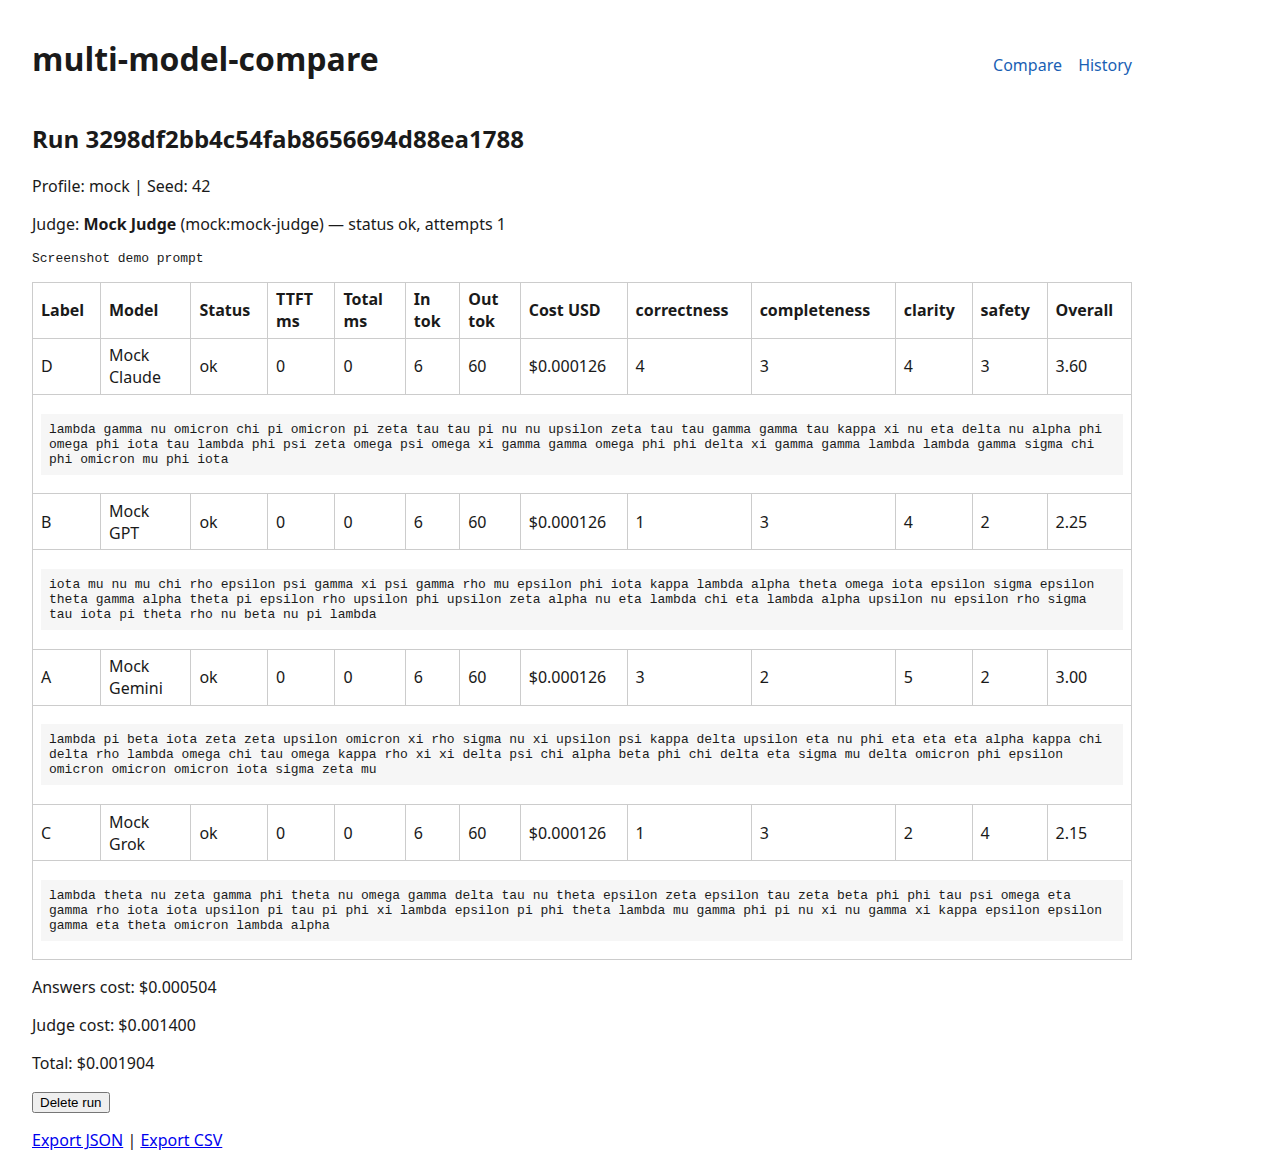
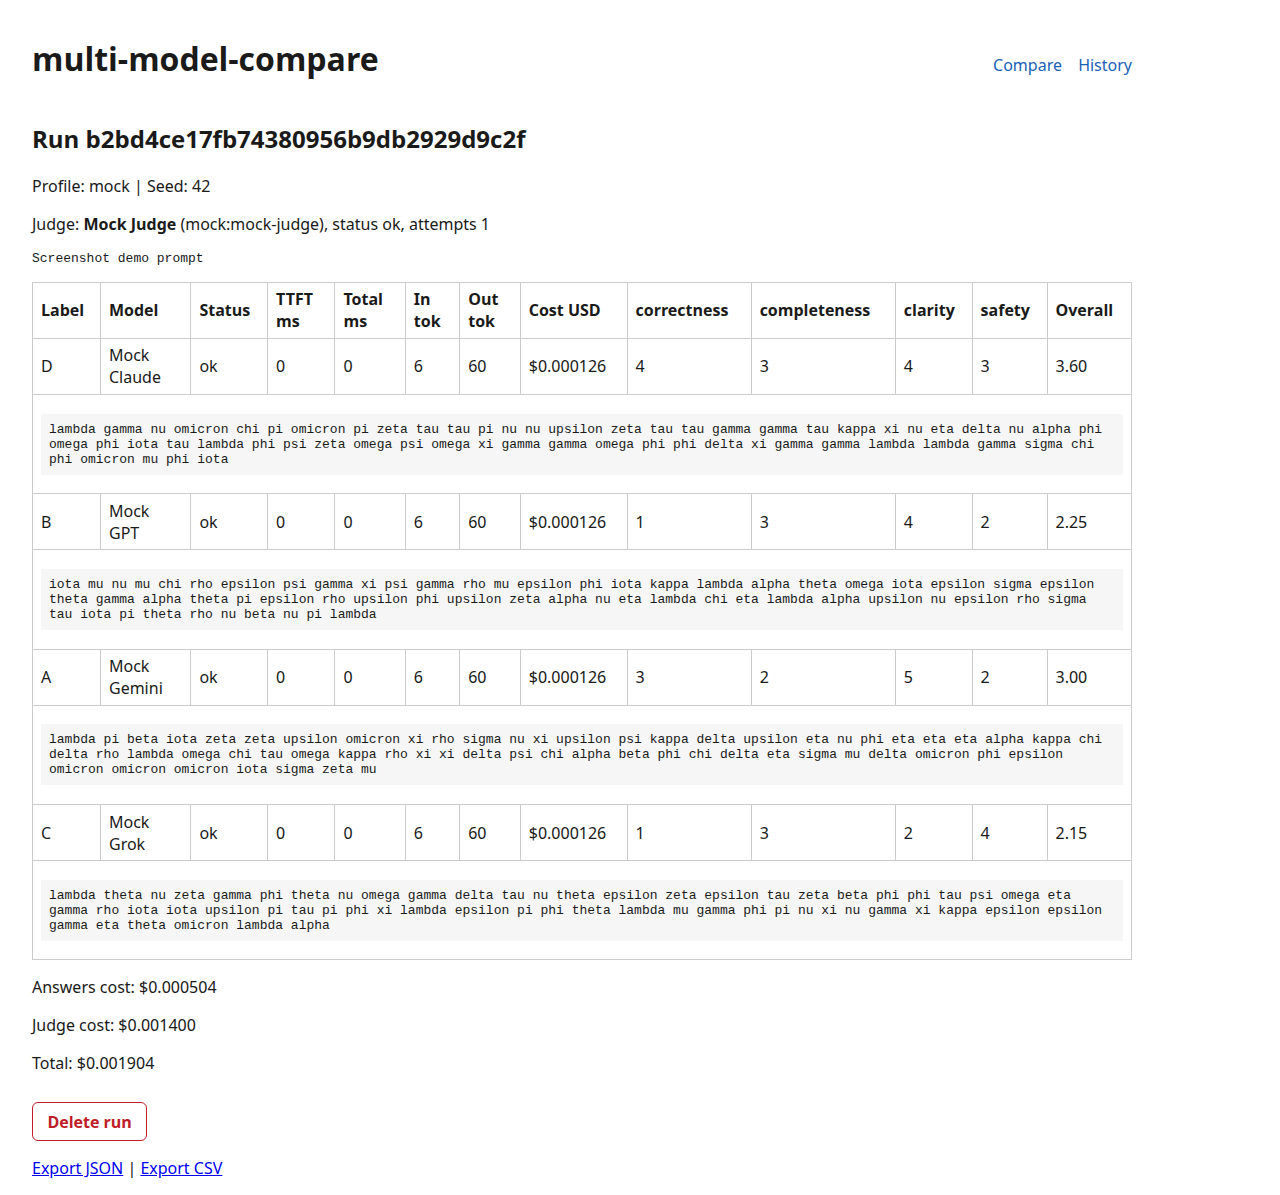
Fix re-verification: Anthropic protocol, xAI gRPC, UI, tags
Treat Anthropic streams without message_delta/stop_reason as protocol errors
with a truncated missing_terminal fixture. Replay real grpc.aio.AioRpcError in
contract tests and assert INTERNAL/UNAUTHENTICATED/RESOURCE_EXHAUSTED mapping;
strengthen Google/xAI tool_choice absence checks. Use answers-only estimated
flag in the UI, improve model grid and form styling, remove stage-* tags from
README and origin, and refresh screenshots.

diff --git a/src/mmc/web/static/app.css b/src/mmc/web/static/app.css
@@ -3,13 +3,58 @@ body { font-family: system-ui, sans-serif; margin: 1rem 2rem; max-width: 1100px;
 .field-prompt { font-weight: 600; margin-bottom: 0.25rem; }
 .prompt-input { width: 100%; box-sizing: border-box; font: inherit; padding: 0.5rem; min-height: 8rem; border: 1px solid #bbb; border-radius: 6px; }
 .field-group { border: 1px solid #ddd; border-radius: 6px; padding: 0.75rem; }
-.model-grid-inner { display: grid; grid-template-columns: repeat(auto-fill, minmax(11rem, 1fr)); gap: 0.35rem 0.75rem; }
-.model-option { display: flex; align-items: center; gap: 0.35rem; font-size: 0.92rem; }
-.model-name { flex: 1; }
-.badge.needs-key { font-size: 0.68rem; background: #fff3cd; color: #664d03; white-space: nowrap; }
+.model-grid-inner {
+  display: grid;
+  grid-template-columns: repeat(auto-fill, minmax(10.5rem, 1fr));
+  gap: 0.5rem 0.75rem;
+  align-items: start;
+}
+.model-option {
+  display: grid;
+  grid-template-columns: auto 1fr;
+  grid-template-rows: auto auto;
+  column-gap: 0.35rem;
+  row-gap: 0.15rem;
+  font-size: 0.92rem;
+  align-items: start;
+}
+.model-option > input[type="checkbox"] { grid-row: 1 / span 2; margin-top: 0.15rem; }
+.model-name { grid-column: 2; line-height: 1.25; word-break: normal; overflow-wrap: break-word; }
+.model-option .badge.needs-key {
+  grid-column: 2;
+  justify-self: start;
+  font-size: 0.68rem;
+  background: #fff3cd;
+  color: #664d03;
+  white-space: normal;
+  max-width: 100%;
+}
+.badge.needs-key { font-size: 0.68rem; background: #fff3cd; color: #664d03; }
 .params-grid { display: grid; grid-template-columns: repeat(auto-fill, minmax(10rem, 1fr)); gap: 0.5rem 1rem; }
 .params-grid label { display: flex; flex-direction: column; font-size: 0.9rem; }
-.params-grid input, #compare-form select { padding: 0.35rem 0.45rem; border: 1px solid #bbb; border-radius: 4px; font: inherit; }
+.params-grid input { padding: 0.35rem 0.45rem; border: 1px solid #bbb; border-radius: 4px; font: inherit; }
+.judge-field { display: flex; flex-direction: column; gap: 0.25rem; font-weight: 600; max-width: 22rem; }
+.judge-select {
+  padding: 0.45rem 0.55rem;
+  border: 1px solid #bbb;
+  border-radius: 6px;
+  font: inherit;
+  background: #fff;
+  cursor: pointer;
+}
+.judge-select:focus { outline: 2px solid #1a5fb4; outline-offset: 1px; }
+.danger-btn {
+  margin-top: 0.75rem;
+  padding: 0.45rem 0.9rem;
+  font: inherit;
+  font-weight: 600;
+  border: 1px solid #c01c28;
+  border-radius: 6px;
+  background: #fff;
+  color: #c01c28;
+  cursor: pointer;
+}
+.danger-btn:hover { background: #fce8e6; }
 .params-grid .checkbox-row { flex-direction: row; align-items: center; gap: 0.35rem; }
 .primary-btn { align-self: flex-start; padding: 0.5rem 1.1rem; font: inherit; font-weight: 600; border: none; border-radius: 6px; background: #1a5fb4; color: #fff; cursor: pointer; }
 .primary-btn:hover { background: #1c71d8; }

diff --git a/src/mmc/web/templates/run.html b/src/mmc/web/templates/run.html
@@ -3,7 +3,7 @@
 <h2>Run {{ record.id }}</h2>
 <p>Profile: {{ record.profile }} | Seed: {{ record.seed }}</p>
 {% if record.judge %}
-<p>Judge: <strong>{{ record.judge.judge.display_name }}</strong> ({{ record.judge.judge.key }}) — status {{ record.judge.status }}, attempts {{ record.judge.attempts|length }}</p>
+<p>Judge: <strong>{{ record.judge.judge.display_name }}</strong> ({{ record.judge.judge.key }}), status {{ record.judge.status }}, attempts {{ record.judge.attempts|length }}</p>
 {% if record.judge.excluded %}
 <p class="judge-exclusions">Excluded from judging:
   {% for model_key, reason in record.judge.excluded.items() %}
@@ -16,7 +16,7 @@
 {% include "_answers_table.html" %}
 <form method="post" action="/runs/{{ record.id }}/delete">
   <input type="hidden" name="csrf_token" value="{{ csrf_token }}">
-  <button type="submit">Delete run</button>
+  <button type="submit" class="danger-btn">Delete run</button>
 </form>
 <p><a href="/runs/{{ record.id }}/export.json">Export JSON</a> | <a href="/runs/{{ record.id }}/export.csv">Export CSV</a></p>
 {% endblock %}

diff --git a/src/mmc/web/templates/index.html b/src/mmc/web/templates/index.html
@@ -20,8 +20,8 @@
     {% endfor %}
     </div>
   </fieldset>
-  <label>Judge
-    <select name="judge" id="judge-select">
+  <label class="judge-field">Judge
+    <select name="judge" id="judge-select" class="judge-select">
       <option value="none">none</option>
       {% for item in models %}
       <option value="{{ item.spec.key }}" {% if item.spec.key == default_judge %}selected{% endif %}>{{ item.spec.display_name }}</option>

diff --git a/src/mmc/web/templates/history.html b/src/mmc/web/templates/history.html
@@ -7,7 +7,7 @@
 </form>
 <ul>
 {% for run in runs %}
-  <li><a href="/runs/{{ run.id }}">{{ run.created_at | format_local_datetime }} — {{ run.prompt_preview }}</a> ({{ run.status }})</li>
+  <li><a href="/runs/{{ run.id }}">{{ run.created_at | format_local_datetime }}: {{ run.prompt_preview }}</a> ({{ run.status }})</li>
 {% endfor %}
 </ul>
 <form method="post" action="/history/clear">

diff --git a/src/mmc/web/templates/_answers_table.html b/src/mmc/web/templates/_answers_table.html
@@ -51,7 +51,7 @@
   {% endfor %}
   </tbody>
 </table>
-<p>Answers cost: ${{ answers_cost_subtotal(record) }}{% if record.total.estimated %} est.{% endif %}</p>
+<p>Answers cost: ${{ answers_cost_subtotal(record) }}{% if answers_cost_estimated(record) %} est.{% endif %}</p>
 {% if record.judge %}
 <p>Judge cost: ${{ judge_cost_subtotal(record) }}</p>
 {% endif %}

diff --git a/tests/contract/test_provider_contracts.py b/tests/contract/test_provider_contracts.py
@@ -3,6 +3,7 @@ from __future__ import annotations
 import asyncio
 import json
 from pathlib import Path
+from types import SimpleNamespace
 from typing import Any
 
 import httpx
@@ -194,26 +195,55 @@ async def test_google_request_has_no_tool_choice(recorded_dir: Path) -> None:
     await prov.aclose()
     await client.aclose()
     assert captured
-    raw = captured[0].content.decode("utf-8", errors="replace")
-    assert "tool_choice" not in raw
+    payload = json.loads(captured[0].content.decode("utf-8"))
+    assert "tool_choice" not in payload
+    assert "tools" not in payload
+    assert "toolConfig" not in payload
 
 
 @pytest.mark.asyncio
 async def test_xai_chat_create_has_no_tool_choice(recorded_dir: Path) -> None:
     payload = load_xai_fixture(recorded_dir.parent, "ok")
-    seen: list[ProviderRequest] = []
+    create_kwargs: list[dict[str, Any]] = []
 
-    def factory(req: ProviderRequest) -> ReplayChat:
-        seen.append(req)
-        return ReplayChat(payload)
+    class _ChatStub:
+        def create(self, **kwargs: Any) -> ReplayChat:
+            create_kwargs.append(kwargs)
+            return ReplayChat(payload)
 
     config = load_app_config(None)
-    prov = XAIProvider(SecretStr("xai-test"), config, chat_factory=factory)
+
+    async def _noop_close() -> None:
+        return None
+
+    prov = XAIProvider(SecretStr("xai-test"), config)
+    prov._client = SimpleNamespace(chat=_ChatStub(), close=_noop_close)
     async for _ in prov.stream(_provider_request("xai")):
         pass
     await prov.aclose()
-    assert len(seen) == 1
-    assert seen[0].output_schema is None
+    assert len(create_kwargs) == 1
+    assert "tools" not in create_kwargs[0]
+    assert "tool_choice" not in create_kwargs[0]
+
+
+@pytest.mark.asyncio
+@pytest.mark.parametrize(
+    ("grpc_status", "error_kind"),
+    [
+        ("INTERNAL", "server"),
+        ("UNAUTHENTICATED", "auth"),
+        ("RESOURCE_EXHAUSTED", "rate_limit"),
+    ],
+)
+async def test_xai_grpc_error_mapping(grpc_status: str, error_kind: str) -> None:
+    payload = {"grpc_status": grpc_status, "chunks": []}
+    config = load_app_config(None)
+    prov = XAIProvider(SecretStr("xai-test"), config, chat_factory=lambda _: ReplayChat(payload))
+    with pytest.raises(ProviderError) as excinfo:
+        async for _ in prov.stream(_provider_request("xai")):
+            pass
+    await prov.aclose()
+    assert excinfo.value.kind == error_kind
 
 
 @pytest.mark.asyncio

diff --git a/src/mmc/web/app.py b/src/mmc/web/app.py
@@ -12,7 +12,13 @@ from mmc import __version__
 from mmc.config.loader import load_app_config
 from mmc.core.supervisor import RunSupervisor
 from mmc.core.tokens import TokenEstimator
-from mmc.display import answers_cost_subtotal, format_local_datetime, format_ms_rounded, judge_cost_subtotal
+from mmc.display import (
+    answers_cost_estimated,
+    answers_cost_subtotal,
+    format_local_datetime,
+    format_ms_rounded,
+    judge_cost_subtotal,
+)
 from mmc.logging_setup import configure_logging
 from mmc.providers.registry import ProviderRegistry
 from mmc.redact import Redactor
@@ -62,6 +68,7 @@ def create_app(settings: Settings | None = None) -> FastAPI:
     templates.env.filters["format_ms"] = format_ms_rounded
     templates.env.filters["format_local_datetime"] = format_local_datetime
     templates.env.globals["answers_cost_subtotal"] = answers_cost_subtotal
+    templates.env.globals["answers_cost_estimated"] = answers_cost_estimated
     templates.env.globals["judge_cost_subtotal"] = judge_cost_subtotal
     app.state.templates = templates
     static_dir = Path(__file__).parent / "static"

diff --git a/tests/contract/conftest.py b/tests/contract/conftest.py
@@ -6,6 +6,7 @@ from pathlib import Path
 from types import SimpleNamespace
 from typing import Any, cast
 
+import grpc
 import httpx
 import httpx2
 import pytest
@@ -76,10 +77,10 @@ class ReplayChat:
 
     async def stream(self) -> AsyncIterator[tuple[Any, Any]]:
         async def _iter() -> AsyncIterator[tuple[Any, Any]]:
-            if self._payload.get("grpc_status"):
-                from mmc.providers.base import ProviderError
-
-                raise ProviderError("server", "synthetic xai grpc error")
+            grpc_status = self._payload.get("grpc_status")
+            if grpc_status:
+                code = grpc.StatusCode[grpc_status]
+                raise grpc.aio.AioRpcError(code, self._payload.get("grpc_details", "synthetic xai grpc error"))
             for item in self._payload.get("chunks", []):
                 yield _ns(item["response"]), _ns(item["chunk"])
 

diff --git a/src/mmc/providers/anthropic_provider.py b/src/mmc/providers/anthropic_provider.py
@@ -84,6 +84,8 @@ class AnthropicProvider(Provider):
             raise ProviderError("server", str(exc)) from exc
 
         stop = final.stop_reason
+        if stop is None:
+            raise ProviderError("protocol", "stream ended without terminal event")
         if stop in ("end_turn", "stop_sequence"):
             outcome = "ok"
         elif stop in ("max_tokens", "pause_turn"):
@@ -91,7 +93,7 @@ class AnthropicProvider(Provider):
         elif stop == "refusal":
             outcome = "refused"
         else:
-            outcome = "ok"
+            raise ProviderError("protocol", f"unexpected stop_reason: {stop}")
         usage = ProviderUsage(
             input_tokens=final.usage.input_tokens,
             output_tokens=final.usage.output_tokens,

diff --git a/tests/unit/test_display.py b/tests/unit/test_display.py
@@ -1,0 +1,21 @@
+from __future__ import annotations
+
+from types import SimpleNamespace
+
+from mmc.display import answers_cost_estimated
+
+
+def test_answers_cost_estimated_ignores_run_total_flag() -> None:
+    estimated_answer = SimpleNamespace(cost=SimpleNamespace(status="estimated"))
+    known_answer = SimpleNamespace(cost=SimpleNamespace(status="known"))
+    record = SimpleNamespace(
+        answers=[estimated_answer, known_answer],
+        total=SimpleNamespace(estimated=True),
+    )
+    assert answers_cost_estimated(record) is True
+
+    judge_only_estimated = SimpleNamespace(
+        answers=[known_answer],
+        total=SimpleNamespace(estimated=True),
+    )
+    assert answers_cost_estimated(judge_only_estimated) is False

diff --git a/tests/contract/test_recorded_fixture_catalog.py b/tests/contract/test_recorded_fixture_catalog.py
@@ -14,7 +14,7 @@ _CATALOG: list[tuple[str, str, str | None, str | None]] = [
     ("anthropic", "incomplete", "incomplete", None),
     ("anthropic", "truncation", "incomplete", None),
     ("anthropic", "error", None, "server"),
-    ("anthropic", "missing_terminal", None, "server"),
+    ("anthropic", "missing_terminal", None, "protocol"),
     ("anthropic", "judge", "ok", None),
     ("openai", "ok", "ok", None),
     ("openai", "refusal", "refused", None),

diff --git a/src/mmc/providers/xai_provider.py b/src/mmc/providers/xai_provider.py
@@ -148,8 +148,6 @@ def _usage_from_response(response: Any, config: AppConfig) -> ProviderUsage | No
 def _map_grpc_error(exc: Exception) -> ProviderError:
     import grpc
 
-    if isinstance(exc, ProviderError):
-        return exc
     if isinstance(exc, grpc.aio.AioRpcError):
         code = exc.code()
         if code in (grpc.StatusCode.UNAUTHENTICATED, grpc.StatusCode.PERMISSION_DENIED):
